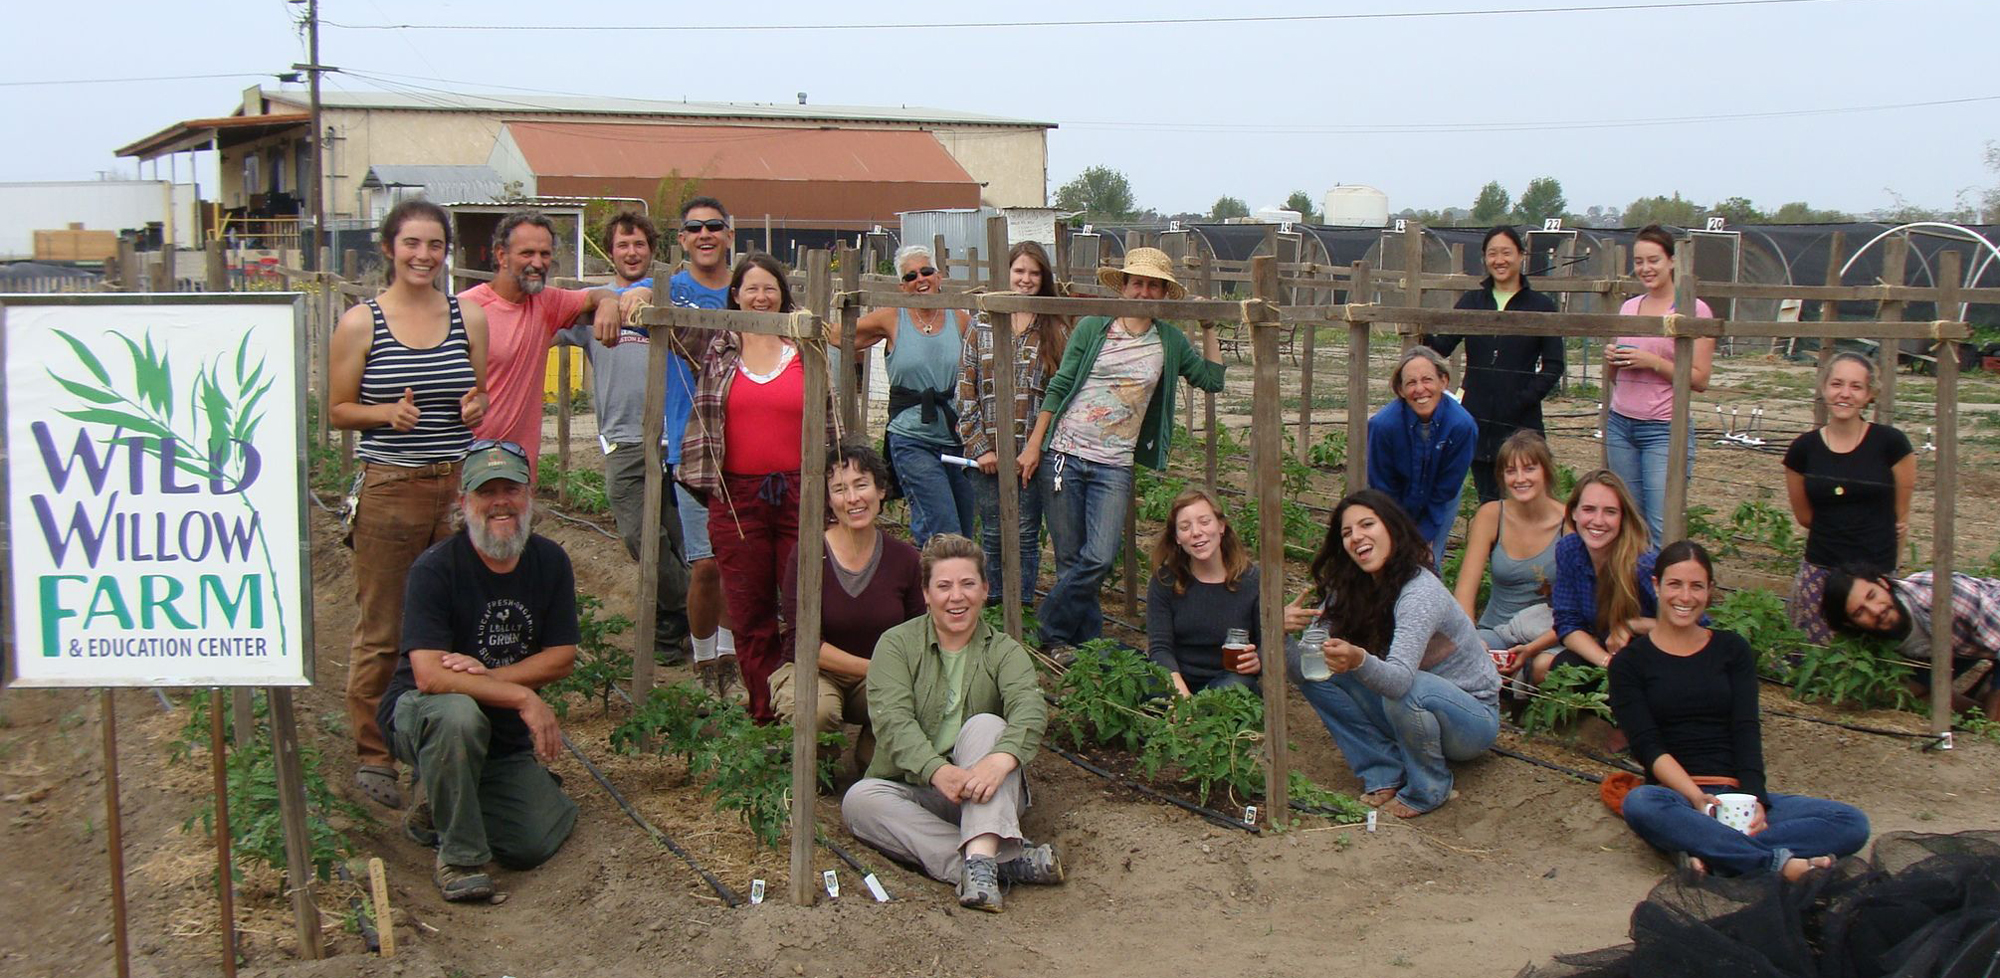
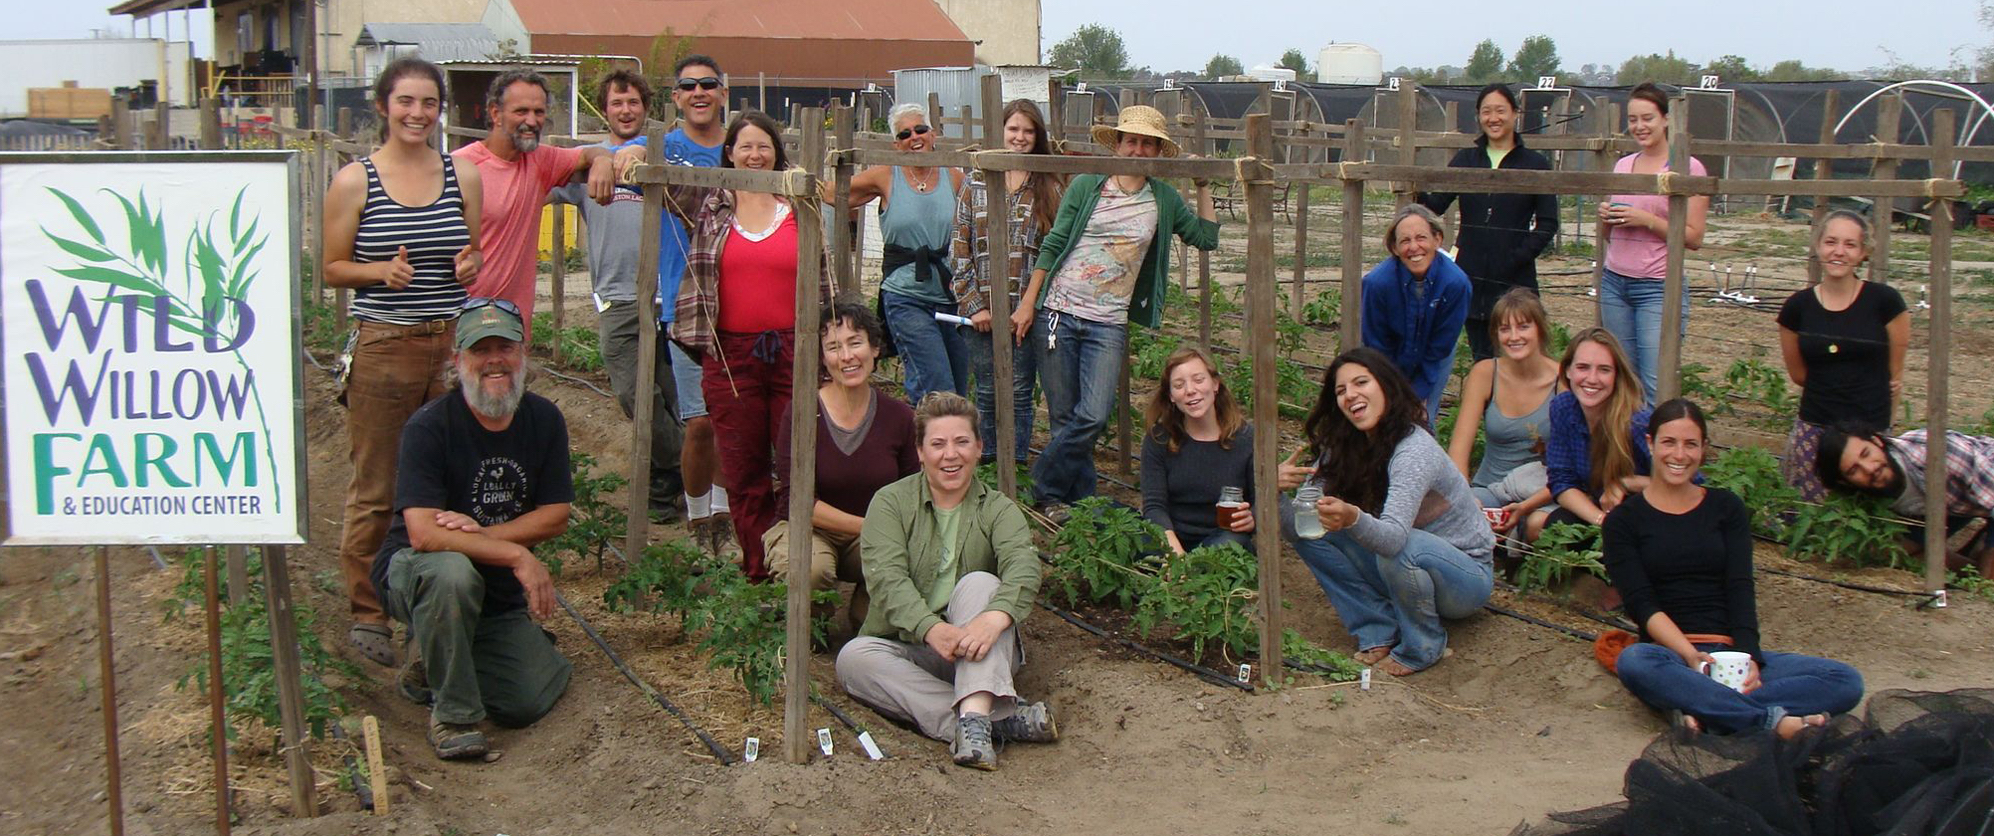
added homepage pics

diff --git a/index.html b/index.html
@@ -69,16 +69,14 @@
         </ol>
         <!-- Wrapper for slides -->
         <div class="carousel-inner" role="listbox">
-          <div class="item active">
-            <img src="http://placehold.it/800x300" alt="cat">
+          <div class="item active carousel-pic">
+            <img src="images/WWF-F101-Class-Photo.jpg" alt="cat">
             <div class="carousel-caption">
-              THIS IS DA KITTEH
             </div>
           </div>
-          <div class="item">
-            <img src="http://placehold.it/800x300" alt="caaat">
+          <div class="item carousel-pic">
+            <img src="images/april12-potluck.jpg" alt="caaat">
             <div class="carousel-caption">
-              HELLO MY CAT
             </div>
           </div>
         </div>
@@ -103,8 +101,7 @@
           <header>
             <h2>Agriculture.</h2>
           </header>
-          <p>GROW FOOD and teach others who want to grow their own food.
-          </p>
+          <p>GROW FOOD and teach others who want to grow their own food.</p>
         </section>
       </div>
       <div class="4u 12u(mobile)">
@@ -113,8 +110,7 @@
           <header>
             <h2>Education.</h2>
           </header>
-          <p>EDUCATE AND TRAIN the next generation of local farmers and gardeners though classes, workshops and
-            training.</p>
+          <p>EDUCATE AND TRAIN the next generation of local farmers and gardeners though classes, workshops and training.</p>
         </section>
       </div>
       <div class="4u 12u(mobile)">
@@ -304,7 +300,7 @@
         <div class="4u 12u(mobile)">
           <section>
             <header>
-              <h2>Sign up!</h2>
+              <h2>Sign up for our Newsletter!</h2>
             </header>
             <form>
 				  <div class="row">

diff --git a/assets/css/home.css b/assets/css/home.css
@@ -30,6 +30,11 @@ body {
 #main-carousel img {
     margin-top: 0.5em;
     width: 100%;
+    height:100%;
+}
+.carousel-pic{
+    height: 400px;
+    overflow: hidden;
 }
 
 /*#mainlearn {
